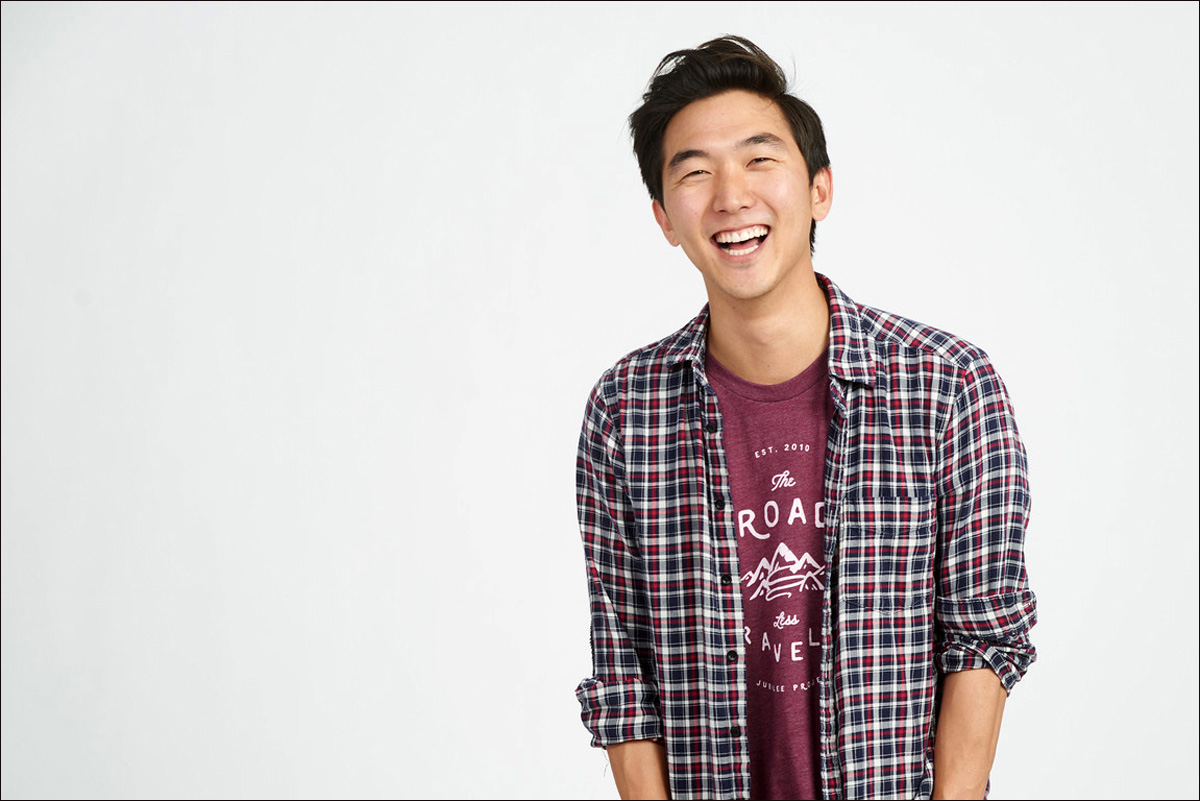
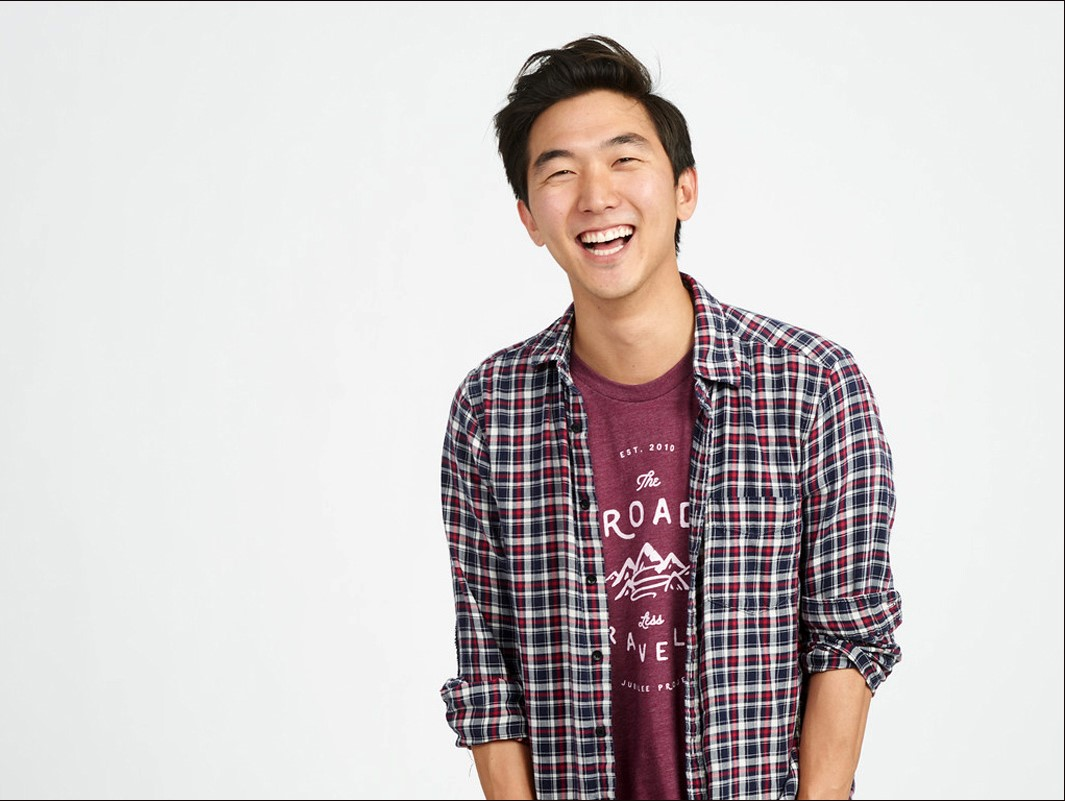
cleaned up images + clarify colors

Changed region(s): [[0.4028, 0.0312, 0.8676, 0.9988], [0.9915, 0.0, 1.0, 0.9988]]

diff --git a/stylesheets/imgStyle.css b/stylesheets/imgStyle.css
@@ -62,8 +62,8 @@ p {
   justify-content: space-evenly;
   padding: 0 20px;
 
-  background-color: pink;
-
+  background-color: var(--inbetween-darkBlue);
+  color: white;
   line-height: calc(2.5rem + 0.1vw + 0.1vh);
 
   border-radius: 20px;
@@ -145,8 +145,6 @@ p {
   background-image: url("../media/speakers/mimi_headshot 2_2021.jpg");
   background-size: cover;
   width: 20%;
-
-  border-radius: 0 20px 0 0;
 }
 
 .whyRow1Imgs li:nth-child(4) {
@@ -154,7 +152,6 @@ p {
 
   background-size: cover;
   width: 25%;
-  border-radius: 0 0 0 20px;
 }
 
 .whyRow1Imgs li:nth-child(5) {
@@ -168,8 +165,6 @@ p {
 
   background-size: cover;
   width: 40%;
-
-  border-radius: 0 0 20px 0;
 }
 
 .whyRow1Imgs p {
@@ -190,6 +185,14 @@ p {
 
 .whyRow1Imgs li:hover p {
   transform: scale(1);
+}
+
+.whyRow1Imgs li:nth-child(4):hover p {
+  border-radius: var(--bottom-left-padding);
+}
+
+.whyRow1Imgs li:nth-child(6):hover p {
+  border-radius: var(--bottom-right-padding);
 }
 
 /* || ROW2 */
@@ -286,6 +289,7 @@ p {
   .whyRow1Imgs p {
     transform: scale(1);
     font-size: calc(1rem + 0.2vw);
+    border-radius: inherit;
   }
 
   .whyRow2 {

diff --git a/stylesheets/style.css b/stylesheets/style.css
@@ -58,7 +58,8 @@ body {
     ". . s s s s s s s s s s s s . ."
     ". . . . b b b b b b b b . . . ."
     ". . . . b b b b b b b b . . . ."
-    ". . . . b b b b b b b b . . . .";
+    ". . . . b b b b b b b b . . . ."
+    ". . . . . . . . . . . . . . . .";
   height: 90vh;
   background-color: var(--inbetween-darkBlue);
   color: var(--inbetween-yellow);
@@ -109,10 +110,10 @@ body {
 .landing button {
   grid-area: b;
 
-  background-color: #cf5c51;
-  border: none;
+  background-color: var(--inbetween-darkBlue);
+  border: 2px solid var(--inbetween-yellow);
   border-radius: 15px;
-  color: #eeeeee;
+  color: var(--inbetween-yellow);
   text-align: center;
   font-size: calc(0.5rem + 3vw);
   letter-spacing: 2px;
